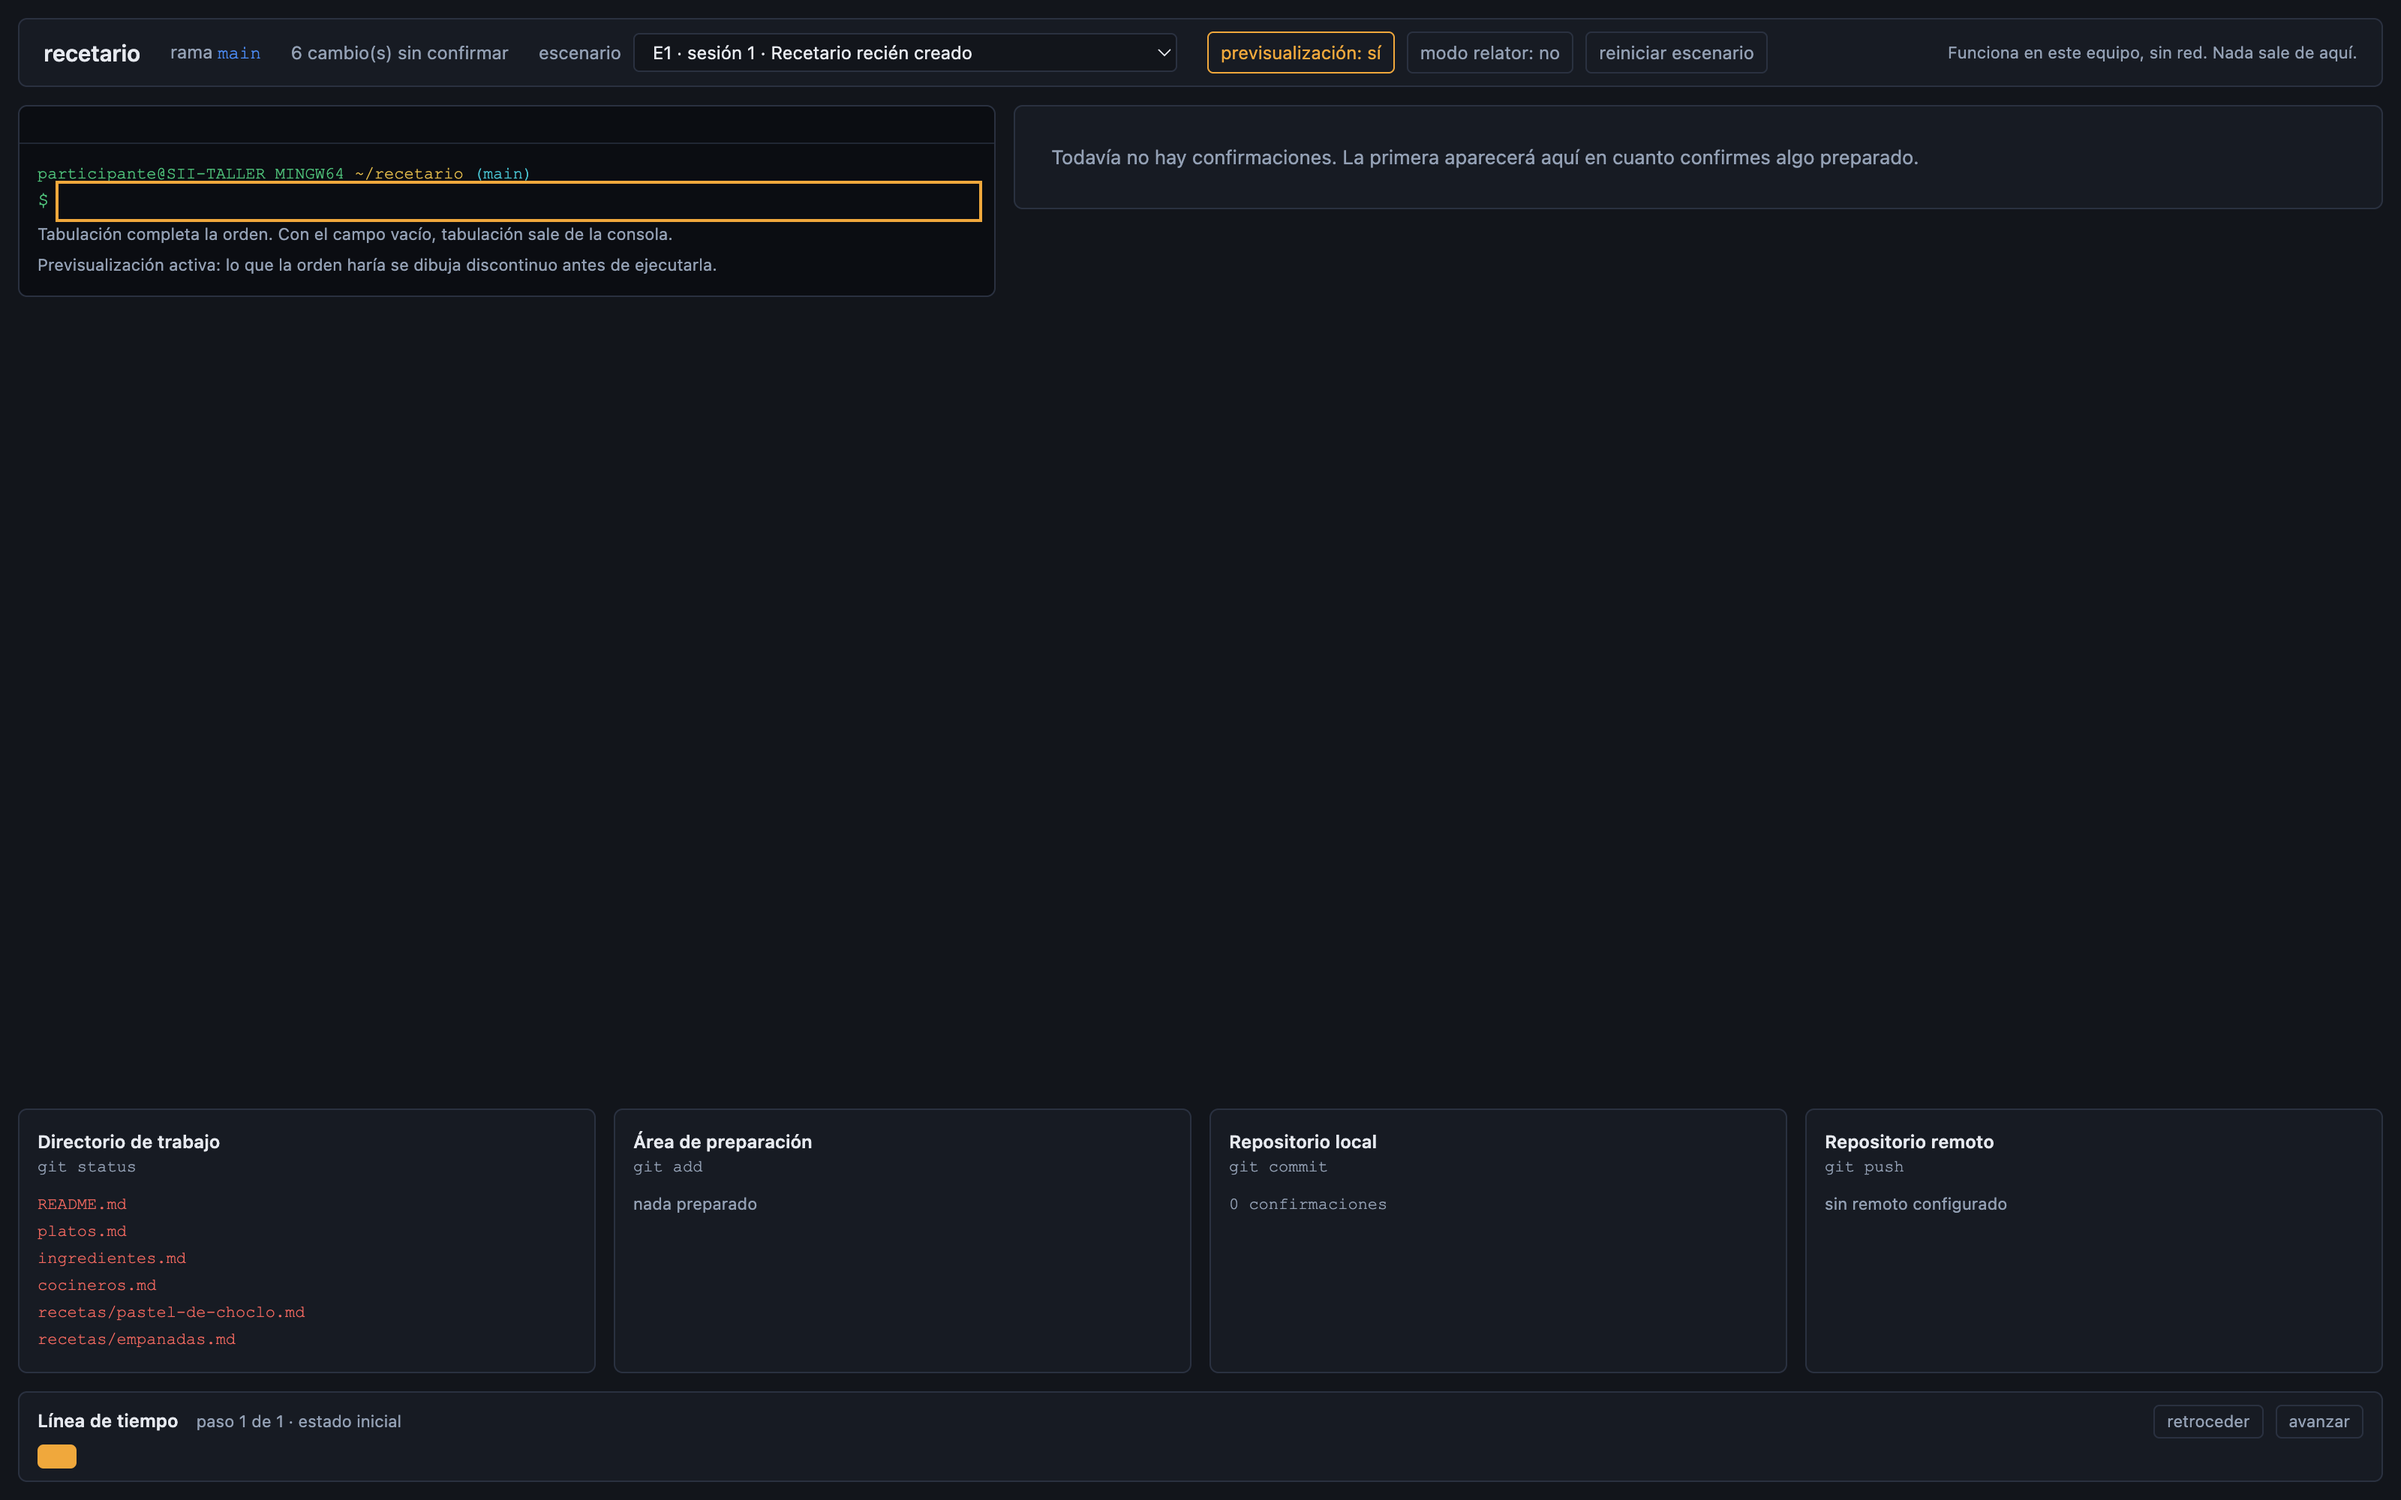
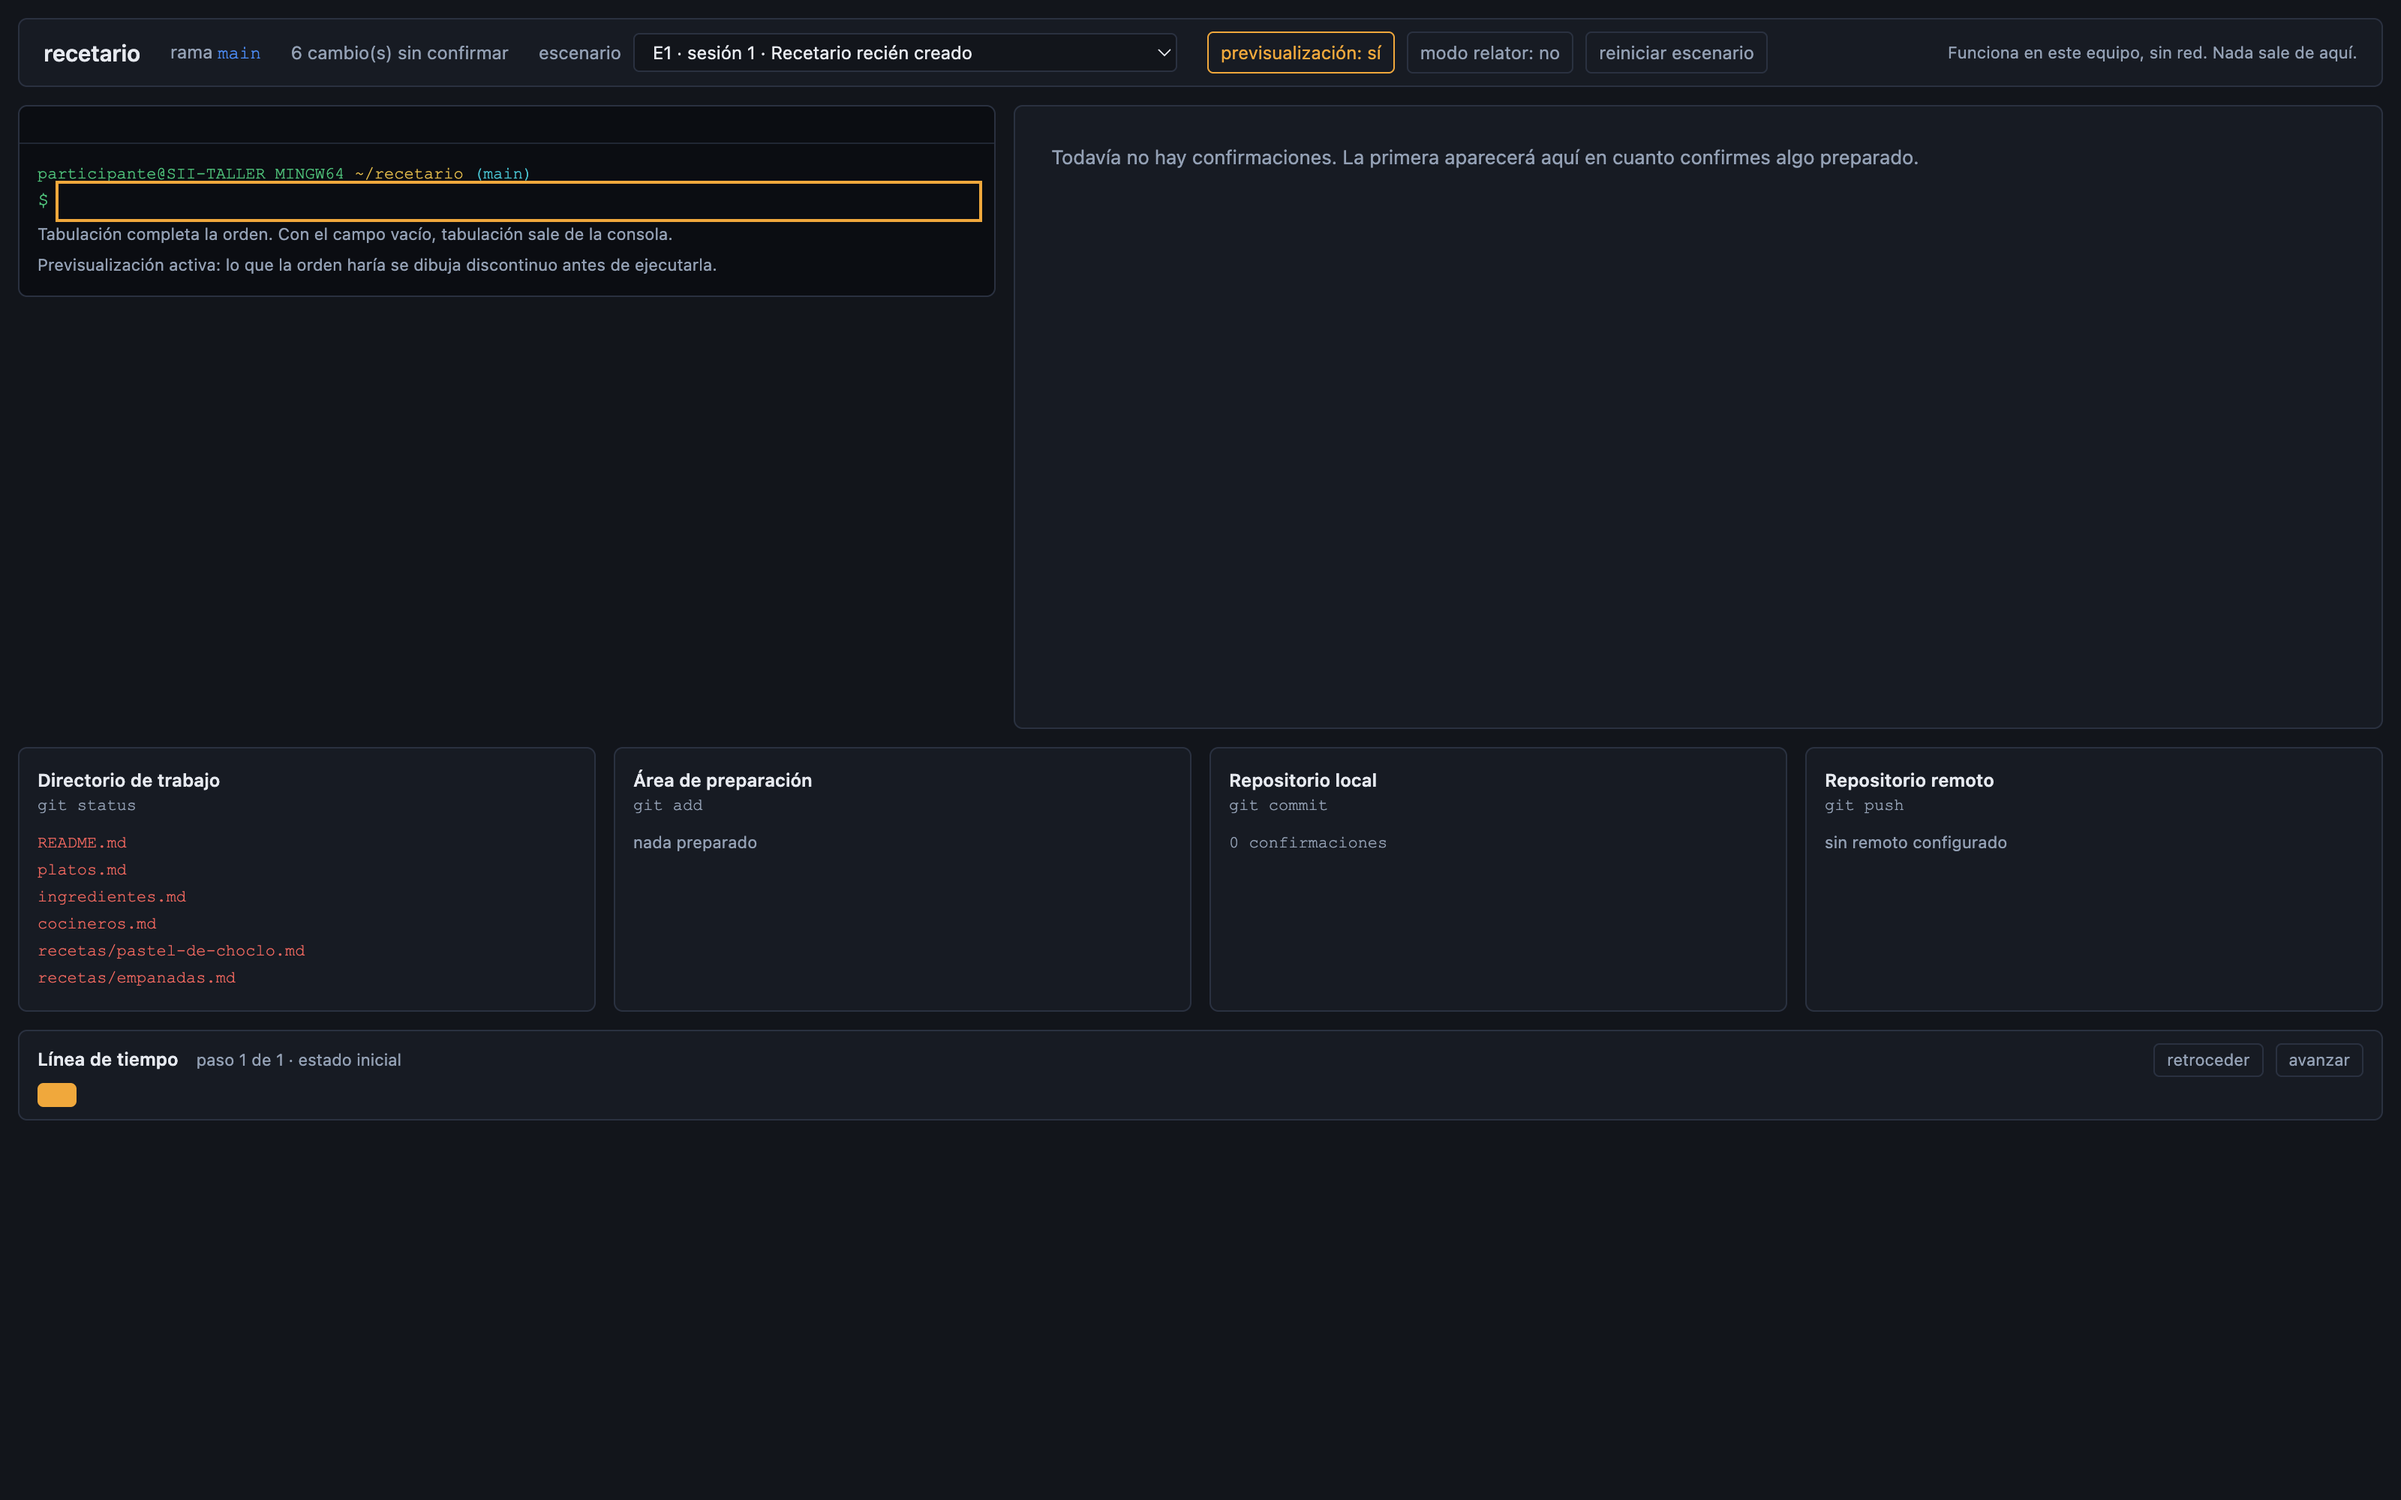
fix(ui): las areas fluyen tras el grafo, que reserva su crecimiento
Anclar la franja de areas y la linea de tiempo al borde inferior evitaba que
se deslizaran mientras el grafo crecia, pero puso el hueco justo al medio: en
E1 y E2 quedaban casi mil pixeles entre el grafo y las areas y la pantalla se
leia partida en dos.

Ahora las areas fluyen a continuacion del grafo, con la misma separacion que
el resto de las zonas, y lo que sobra queda al final de la pagina. Lo que
mantiene quietas a las areas es el alto minimo del grafo: veintiseis unidades,
que dan para unas siete confirmaciones. Mientras la clase avanza dentro de esa
reserva el dibujo crece hacia adentro del panel y nada de lo que esta debajo
se mueve. Es ademas la unica altura que la pantalla impone, y cae donde se
espera que aparezca contenido.

Las capturas se rehicieron con el cambio puesto y se renumeraron para que el
conjunto vaya en orden de escenario: se agrega la de E2, que faltaba y es uno
de los dos casos donde se veia el hueco.

Claude-Session: https://claude.ai/code/session_01HfzyvdFU7MGcijCCZuqaY5

diff --git a/simulador/src/ui/Aplicacion.tsx b/simulador/src/ui/Aplicacion.tsx
@@ -113,8 +113,13 @@ export function Aplicacion(): React.ReactElement {
         contenido pide. Sin eso, ambos se estiraban a la altura de la fila y en
         los escenarios de la sesion 1 la pantalla mostraba mil pixeles vacios.
         El tope los mantiene dentro de la ventana junto con el resto de zonas.
+
+        El grafo reserva ademas un alto minimo, que es donde va a crecer durante
+        la clase. Esa reserva es lo que mantiene quietas a las areas mientras
+        aparecen confirmaciones, sin necesidad de anclarlas al borde inferior:
+        anclarlas partia la pantalla en dos en los escenarios chicos.
       */}
-      <div className="grid grid-cols-1 items-start gap-3 [--alto-central:calc(100dvh-20rem)] min-[1280px]:grid-cols-[minmax(0,5fr)_minmax(0,7fr)]">
+      <div className="grid grid-cols-1 items-start gap-3 [--alto-central:calc(100dvh-20rem)] [--alto-grafo:26rem] min-[1280px]:grid-cols-[minmax(0,5fr)_minmax(0,7fr)]">
         <Consola
           indicador={pantalla.indicador}
           renglones={pantalla.renglones}
@@ -133,7 +138,7 @@ export function Aplicacion(): React.ReactElement {
         />
 
         <section
-          className="panel max-h-[var(--alto-central)] min-h-0 overflow-hidden"
+          className="panel max-h-[var(--alto-central)] min-h-[var(--alto-grafo)] overflow-hidden"
           aria-label="Grafo de confirmaciones"
         >
           <Grafo
@@ -147,13 +152,11 @@ export function Aplicacion(): React.ReactElement {
       </div>
 
       {/*
-        `mt-auto` deja la franja de areas y la linea de tiempo apoyadas en el
-        borde inferior. Asi el hueco que sobra en los escenarios chicos queda
-        entre el grafo y las areas, que es justo donde el grafo va a crecer, y
-        las dos zonas de abajo no se deslizan por la pantalla a medida que
-        aparecen confirmaciones.
+        Las areas fluyen a continuacion del grafo, con la misma separacion que
+        el resto de las zonas. Lo que sobre queda al final de la pagina, no en
+        el medio.
       */}
-      <div className="mt-auto shrink-0 space-y-3">
+      <div className="shrink-0 space-y-3">
         <Areas columnas={pantalla.columnas} />
         <PanelesSecundarios paneles={pantalla.paneles} />
       </div>

diff --git a/simulador/tests/arquitectura-vista.test.ts b/simulador/tests/arquitectura-vista.test.ts
@@ -161,8 +161,8 @@ describe('la pantalla se ajusta al contenido', () => {
     // minimo, de modo que las zonas no se estiran para rellenar la ventana.
     expect(aplicacion).not.toMatch(/(?<![-\w])h-\[100dvh\]/);
     expect(aplicacion).toContain('min-h-[100dvh]');
-    // Lo que sobra queda entre el grafo y las areas, no debajo de todo.
-    expect(aplicacion).toContain('mt-auto');
+    // Las areas fluyen tras el grafo: lo que sobra cae al final de la pagina.
+    expect(aplicacion).not.toContain('mt-auto');
   });
 
   it('la consola y el grafo crecen hasta un tope y ahi se desplazan por dentro', () => {
@@ -170,6 +170,11 @@ describe('la pantalla se ajusta al contenido', () => {
     expect(consola).toContain('min-h-0 overflow-auto');
     expect(grafo).toContain('max-h-full overflow-auto');
     expect(aplicacion).toContain('[--alto-central:calc(100dvh-20rem)]');
+  });
+
+  it('el grafo reserva su espacio de crecimiento para que las areas no se deslicen', () => {
+    expect(aplicacion).toContain('[--alto-grafo:26rem]');
+    expect(aplicacion).toContain('min-h-[var(--alto-grafo)]');
   });
 });
 

diff --git a/docs/capturas/README.md b/docs/capturas/README.md
@@ -24,8 +24,9 @@ de lo que se ve, y no de lo que el modelo calcula.
 | Archivo | Escenario | Que muestra |
 |---|---|---|
 | `01-e1-inicio.png` | E1 | Estado de partida de la sesion 1. Sin confirmaciones, los seis archivos sin seguimiento en rojo en el directorio de trabajo, el grafo diciendo que la primera confirmacion aparecera ahi. |
-| `02-e3-inicio.png` | E3 | La rama `tailandesa` separada del tronco, `main` con `HEAD` colgando debajo, y las dos ramas en colores distintos. |
-| `03-e3-rama-nueva-y-confirmacion.png` | E3 | Criterio CA2. Despues de `git switch -c postres`, modificar `platos.md`, prepararlo y confirmar: la etiqueta `postres` nueva, `HEAD` colgando de ella y la confirmacion recien creada arriba. |
-| `04-e4-previsualizacion-fusion.png` | E4 | Criterio CA3. `git merge tailandesa` escrita y sin ejecutar: la union que la fusion produciria, dibujada en trazo discontinuo y sin relleno, sus dos aristas tambien discontinuas, y el aviso de la consola en ambar. |
-| `05-e3-despues-del-rebase.png` | E3 | Criterio CA4. Tras `git rebase main`, las dos confirmaciones originales quedan en gris atenuado y siguen dibujadas, rotuladas `sin referencia`, mientras las copias nuevas aparecen arriba con identificadores distintos. |
+| `02-e2-inicio.png` | E2 | Historia lineal de cuatro confirmaciones sobre `main`, con `HEAD` colgando de la rama y el archivo modificado en el directorio de trabajo. Se ve la reserva de crecimiento del grafo: el dibujo crece hacia adentro del panel y las areas no se mueven. |
+| `03-e3-inicio.png` | E3 | La rama `tailandesa` separada del tronco, `main` con `HEAD` colgando debajo, y las dos ramas en colores distintos. |
+| `04-e3-rama-nueva-y-confirmacion.png` | E3 | Criterio CA2. Despues de `git switch -c postres`, modificar `platos.md`, prepararlo y confirmar: la etiqueta `postres` nueva, `HEAD` colgando de ella y la confirmacion recien creada arriba. |
+| `05-e4-previsualizacion-fusion.png` | E4 | Criterio CA3. `git merge tailandesa` escrita y sin ejecutar: la union que la fusion produciria, dibujada en trazo discontinuo y sin relleno, sus dos aristas tambien discontinuas, y el aviso de la consola en ambar. |
+| `06-e3-despues-del-rebase.png` | E3 | Criterio CA4. Tras `git rebase main`, las dos confirmaciones originales quedan en gris atenuado y siguen dibujadas, rotuladas `sin referencia`, mientras las copias nuevas aparecen arriba con identificadores distintos. |
 

diff --git a/docs/arquitectura.md b/docs/arquitectura.md
@@ -325,11 +325,21 @@ Ahora la altura de la ventana es un minimo y no un reparto. La consola y el
 grafo miden su contenido y crecen desde arriba, con un tope de `100dvh` menos
 veinte unidades, que es lo que ocupan la barra, la franja de areas y la linea
 de tiempo juntas; pasado ese tope se desplazan por dentro y las cuatro zonas
-siguen cabiendo en la ventana. La franja de areas y la linea de tiempo quedan
-apoyadas en el borde inferior, de modo que el hueco sobrante cae entre el grafo
-y las areas, que es justo por donde el grafo va a crecer durante la clase, y no
-debajo de todo. Las dos zonas de abajo no se deslizan a medida que aparecen
-confirmaciones.
+siguen cabiendo en la ventana.
+
+La franja de areas y la linea de tiempo fluyen a continuacion del grafo, con la
+misma separacion que hay entre el resto de las zonas. Lo que sobra queda al
+final de la pagina. Un primer intento las anclo al borde inferior para que no
+se deslizaran mientras el grafo crecia, y eso puso el hueco justo al medio: en
+E1 y E2 quedaban casi mil pixeles entre el grafo y las areas, y la pantalla se
+leia partida en dos.
+
+Lo que mantiene quietas a las areas es el alto minimo del grafo, no el anclaje.
+El grafo reserva veintiseis unidades, que dan para unas siete confirmaciones:
+mientras la clase avanza dentro de esa reserva, el dibujo crece hacia adentro
+del panel y nada de lo que esta debajo se mueve. La reserva es ademas la unica
+altura que la pantalla impone, y se nota solo en el panel del grafo, que es
+donde se espera que aparezca contenido.
 
 **7.13 Las listas de archivos se desplazan por filas enteras.** El tope de las
 listas de la zona D es un multiplo exacto del alto de fila, y ambas medidas se

diff --git a/README.md b/README.md
@@ -88,7 +88,7 @@ Ejecuta las pruebas y mide la cobertura del motor, de los escenarios, del
 calculo de posiciones y del modelo de vista. La orden falla si la cobertura de
 lineas baja del 90 por ciento, que es el minimo que fija el SPEC 001.
 
-Estado actual: 230 pruebas, 98 por ciento de cobertura de lineas.
+Estado actual: 231 pruebas, 98 por ciento de cobertura de lineas.
 
 Otras ordenes utiles:
 
